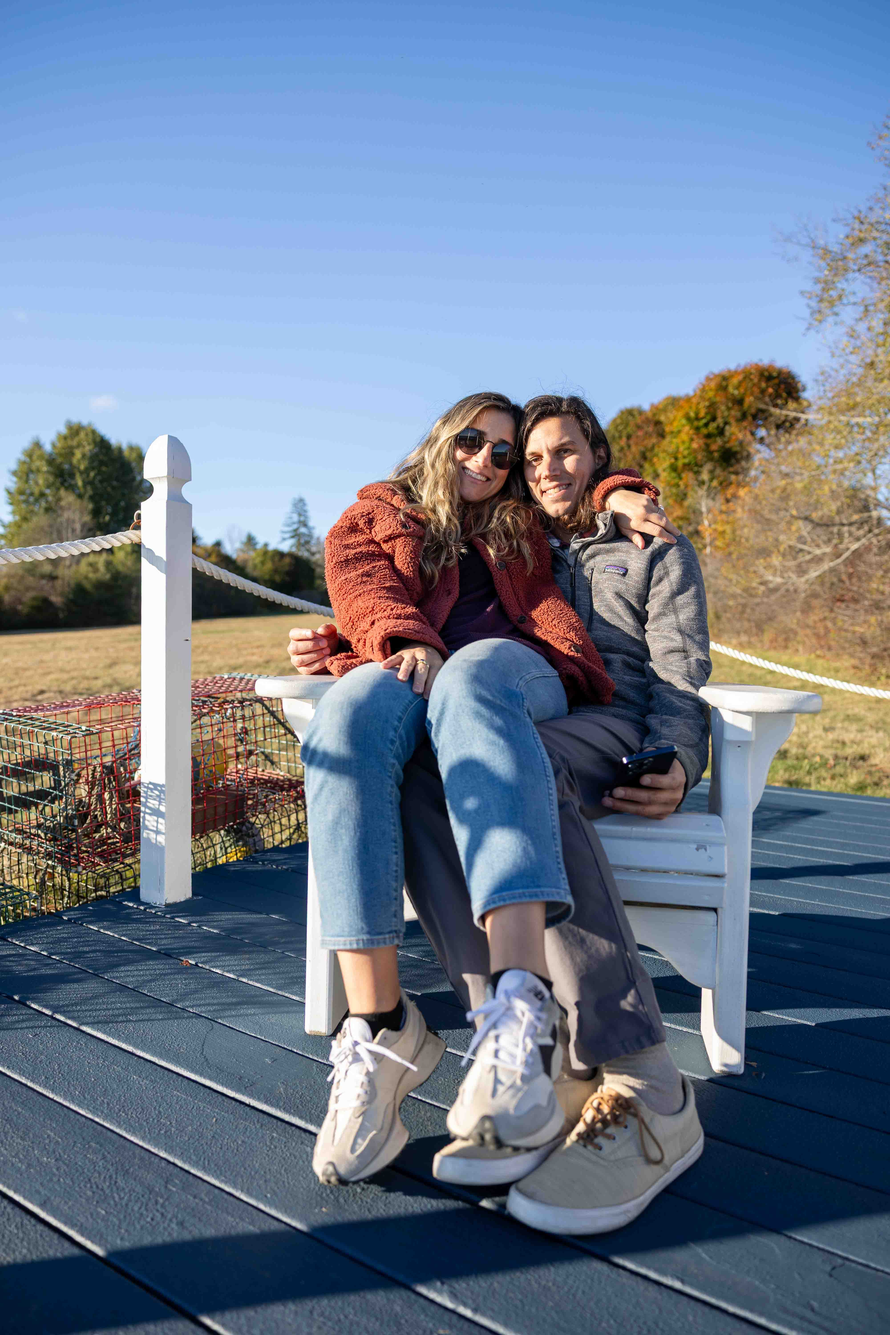
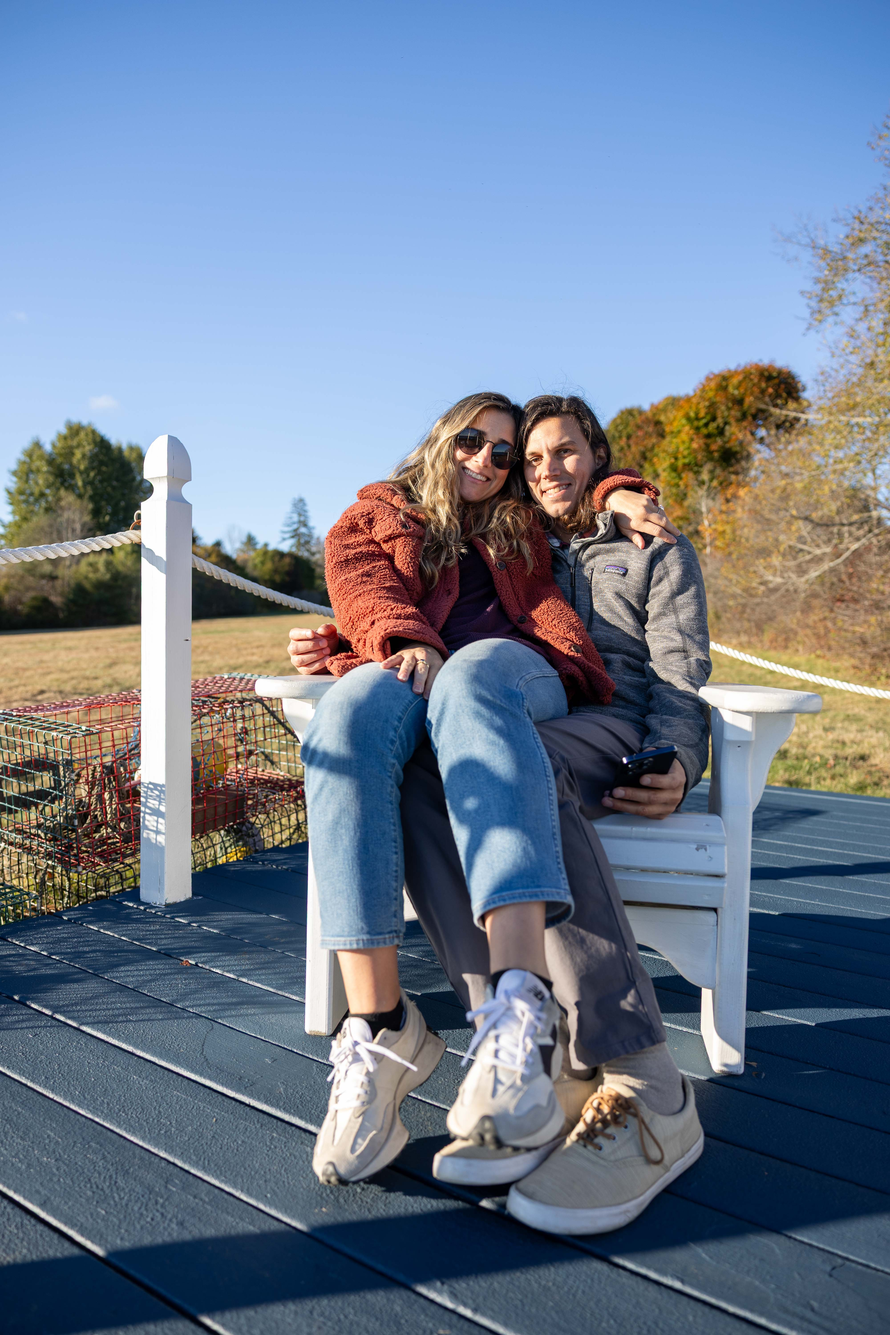
feat: adding new photos from our Rome tip 🇮🇹

diff --git a/src/app/gallery/page.tsx b/src/app/gallery/page.tsx
@@ -49,6 +49,12 @@ const photos: Photo[] = [
     alt: 'Katie and Chris celebration photo',
   },
   {
+    src: '/images/gallery/IMG_0421.jpg',
+    width: 6000,
+    height: 4000,
+    alt: 'Katie and Chris celebration photo',
+  },
+  {
     src: '/images/gallery/IMG_0512.jpg',
     width: 3024,
     height: 4032,
@@ -61,9 +67,39 @@ const photos: Photo[] = [
     alt: 'Katie and Chris celebration photo',
   },
   {
+    src: '/images/gallery/IMG_0628.jpg',
+    width: 6000,
+    height: 4000,
+    alt: 'Katie and Chris celebration photo',
+  },
+  {
+    src: '/images/gallery/IMG_0992.jpg',
+    width: 6000,
+    height: 4000,
+    alt: 'Katie and Chris celebration photo',
+  },
+  {
     src: '/images/gallery/IMG_1101.jpg',
     width: 2316,
     height: 3088,
+    alt: 'Katie and Chris celebration photo',
+  },
+  {
+    src: '/images/gallery/IMG_1382.jpg',
+    width: 3935,
+    height: 5903,
+    alt: 'Katie and Chris celebration photo',
+  },
+  {
+    src: '/images/gallery/IMG_1400.jpg',
+    width: 6000,
+    height: 4000,
+    alt: 'Katie and Chris celebration photo',
+  },
+  {
+    src: '/images/gallery/IMG_1458.jpg',
+    width: 3855,
+    height: 5782,
     alt: 'Katie and Chris celebration photo',
   },
   {
@@ -76,6 +112,18 @@ const photos: Photo[] = [
     src: '/images/gallery/IMG_1712.jpg',
     width: 4032,
     height: 3024,
+    alt: 'Katie and Chris celebration photo',
+  },
+  {
+    src: '/images/gallery/IMG_2590.jpg',
+    width: 2316,
+    height: 3088,
+    alt: 'Katie and Chris celebration photo',
+  },
+  {
+    src: '/images/gallery/IMG_2627-2.jpg',
+    width: 3213,
+    height: 5712,
     alt: 'Katie and Chris celebration photo',
   },
   {
